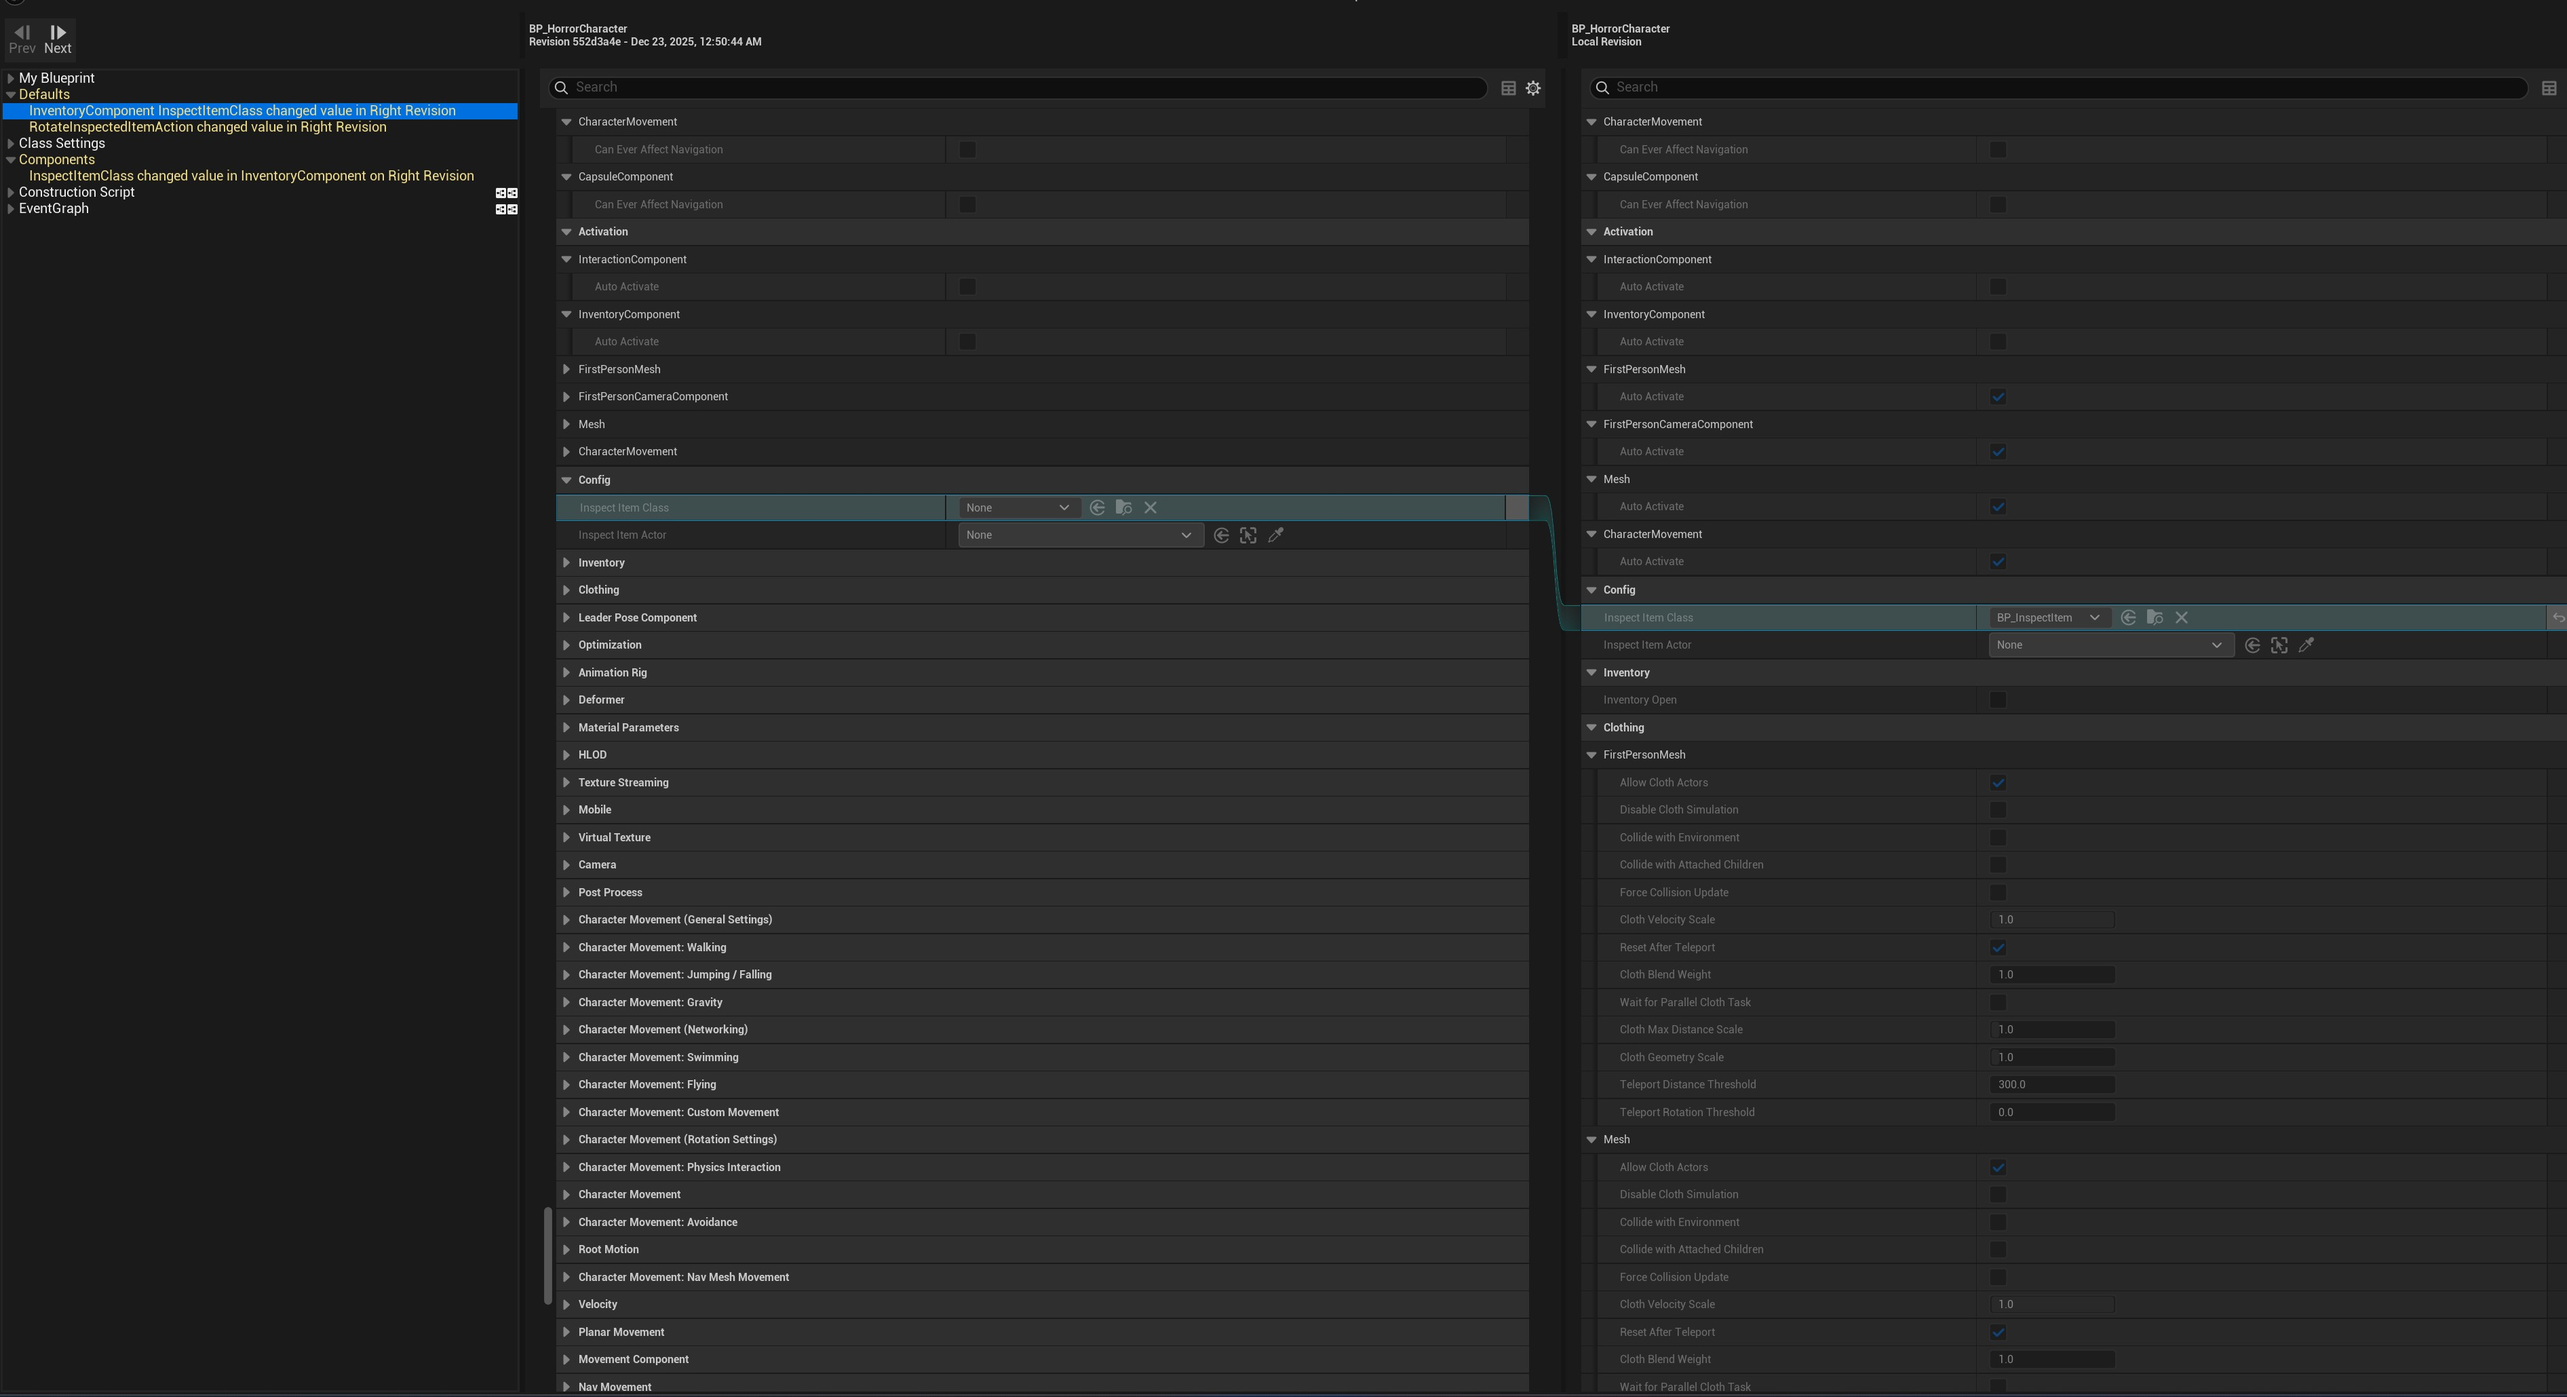
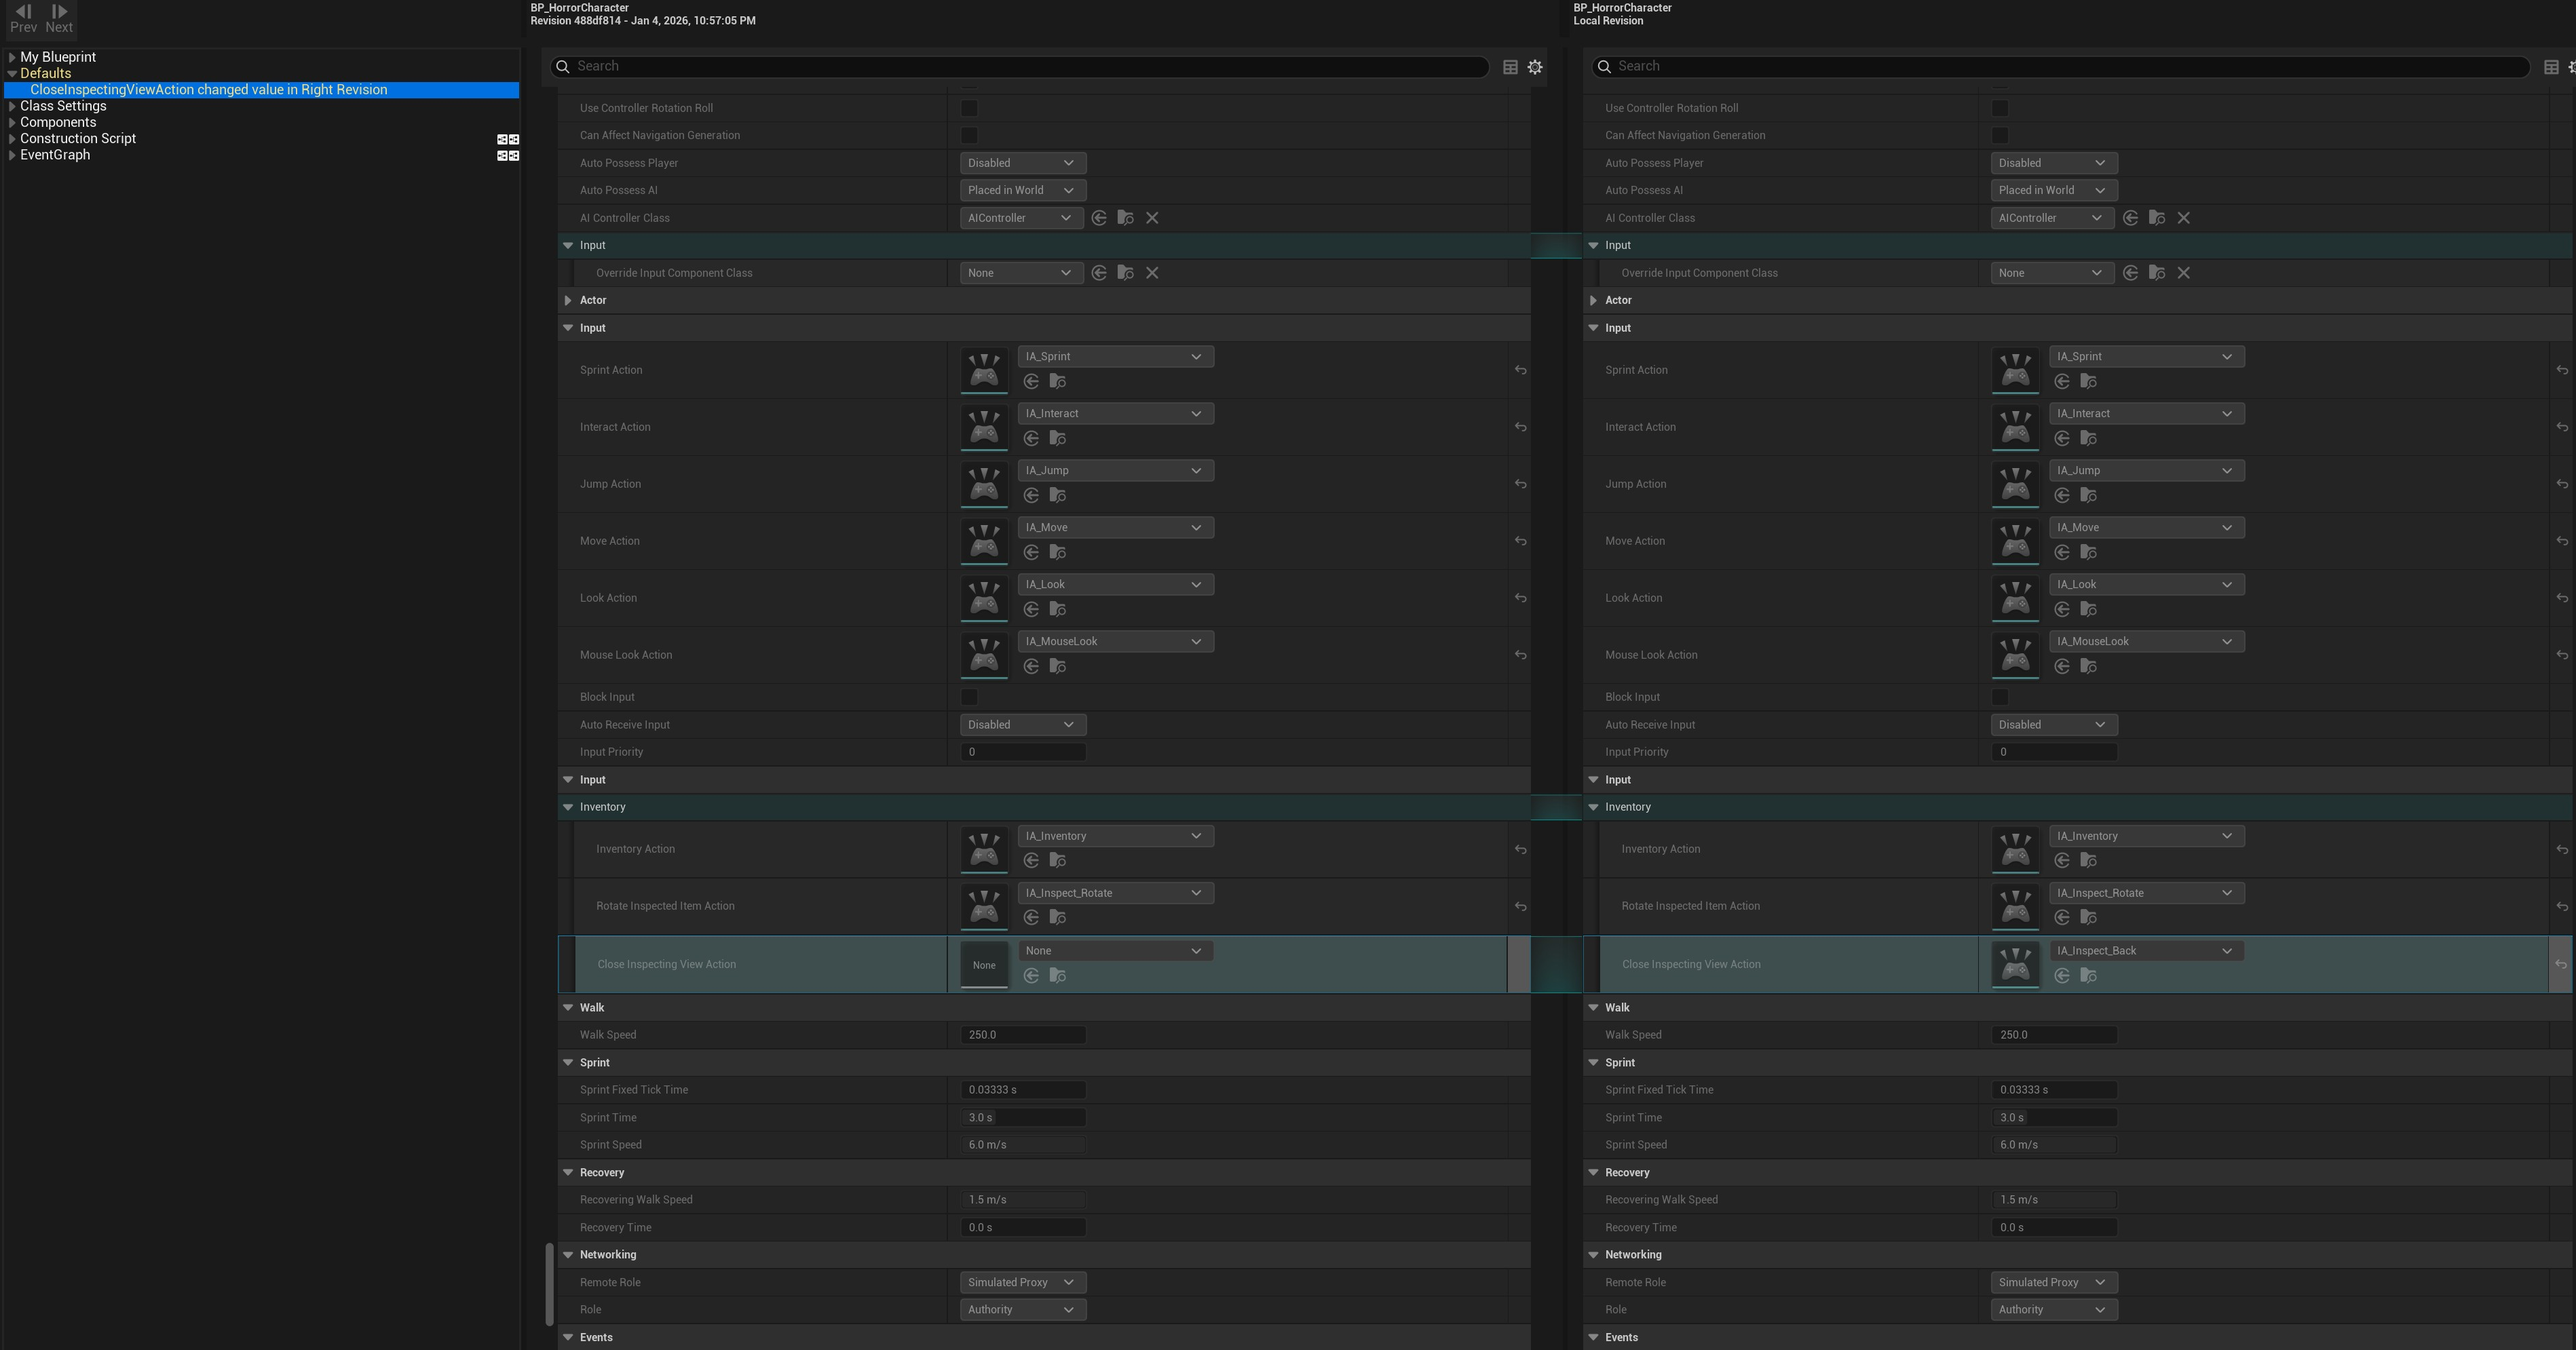
[Add] Inspection back key

diff --git a/Source/The_Turnatable/Private/Core/HorrorCharacter.cpp b/Source/The_Turnatable/Private/Core/HorrorCharacter.cpp
@@ -63,6 +63,7 @@ void AHorrorCharacter::SetupPlayerInputComponent(UInputComponent* PlayerInputCom
 			EnhancedInputComponent->BindAction(SprintAction, ETriggerEvent::Started, this, &AHorrorCharacter::DoStartSprint);
 			EnhancedInputComponent->BindAction(SprintAction, ETriggerEvent::Completed, this, &AHorrorCharacter::DoEndSprint);
 			EnhancedInputComponent->BindAction(InteractAction, ETriggerEvent::Started, InteractionComponent	, &UTTInteractionComponent::PrimaryInteract);
+			EnhancedInputComponent->BindAction(CloseInspectingViewAction, ETriggerEvent::Started, InventoryComponent, &UTTInventoryComponent::CloseInspectView);
 			EnhancedInputComponent->BindAction(InventoryAction, ETriggerEvent::Started, InventoryComponent, &UTTInventoryComponent::ToggleInventory);
 			EnhancedInputComponent->BindAction(RotateInspectedItemAction, ETriggerEvent::Triggered, InventoryComponent, &UTTInventoryComponent::RotateItem);
 		}

diff --git a/Source/The_Turnatable/Private/LevelGeometry/TTInspectItem.cpp b/Source/The_Turnatable/Private/LevelGeometry/TTInspectItem.cpp
@@ -55,12 +55,19 @@ void ATTInspectItem::InspectItem(UStaticMesh* Mesh, const FText& ItemName, const
 	}
 	InspectWidget->OnInspect(ItemName, ItemDescription);
 	InspectWidget->AddToViewport();
+	bIsInspecting = true;
+}
+
+void ATTInspectItem::CloseInspectWidget()
+{
+	if (!InspectWidget) return;
+	
+	InspectWidget->RemoveFromParent();
+	bIsInspecting = false;
 }
 
 void ATTInspectItem::RotateItem(const FVector2D LookAxisVector) const
 {
-	UE_LOG(LogTemp, Warning, TEXT ("Rotate Item"));
-	UE_LOG(LogTemp, Warning, TEXT ("Look Axis: %s"), *LookAxisVector.ToString());
 	FRotator NewRotation = UKismetMathLibrary::ComposeRotators(StaticMeshComponent->GetComponentRotation(),
 		FRotator(LookAxisVector.Y, LookAxisVector.X, 0.0f));
 	StaticMeshComponent->SetWorldRotation(NewRotation);

diff --git a/Source/The_Turnatable/Private/Core/Inventory/TTInventoryComponent.cpp b/Source/The_Turnatable/Private/Core/Inventory/TTInventoryComponent.cpp
@@ -53,11 +53,24 @@ bool UTTInventoryComponent::HasItem(UTTItem* ItemToCheck)
 
 void UTTInventoryComponent::ToggleInventory()
 {
-	bInventoryOpen = !bInventoryOpen;
-	OnInventoryToggleDelegate.Broadcast(bInventoryOpen);
+	if (!InspectItemActor) return;
+	if (InspectItemActor->IsInspecting())
+	{
+		CloseInspectView();
+	}
+	else
+	{
+		bInventoryOpen = !bInventoryOpen;
+		OnInventoryToggleDelegate.Broadcast(bInventoryOpen);
+	}
 }
 
 void UTTInventoryComponent::RotateItem(const FInputActionValue& Value)
 {
 	InspectItemActor->RotateItem(Value.Get<FVector2D>()*3.0f);
+}
+
+void UTTInventoryComponent::CloseInspectView()
+{
+	InspectItemActor->CloseInspectWidget();
 }

diff --git a/Source/The_Turnatable/Public/LevelGeometry/TTInspectItem.h b/Source/The_Turnatable/Public/LevelGeometry/TTInspectItem.h
@@ -34,9 +34,11 @@ public:
 	
 	// Sets default values for this actor's properties
 	ATTInspectItem();
-	
+
+	bool IsInspecting() const { return bIsInspecting; }
 
 protected:
+	bool bIsInspecting =false;
 	// Called when the game starts or when spawned
 	virtual void BeginPlay() override;
 
@@ -45,5 +47,6 @@ public:
 	virtual void Tick(float DeltaTime) override;
 	
 	void InspectItem(UStaticMesh* Mesh, const FText& ItemName, const FText& ItemDescription = FText::GetEmpty());
+	void CloseInspectWidget();
 	void RotateItem(const FVector2D LookAxisVector) const;
 };

diff --git a/Source/The_Turnatable/Public/Core/HorrorCharacter.h b/Source/The_Turnatable/Public/Core/HorrorCharacter.h
@@ -50,6 +50,10 @@ protected:
 	/** Inventory input action */
 	UPROPERTY(EditAnywhere, Category ="Input | Inventory")
 	UInputAction* RotateInspectedItemAction;
+
+	/** Inventory input action */
+	UPROPERTY(EditAnywhere, Category ="Input | Inventory")
+	UInputAction* CloseInspectingViewAction;
 	
 	/** If true, we're sprinting */
 	bool bSprinting = false;

diff --git a/Source/The_Turnatable/Private/Core/Inventory/TTInventoryComponent.h b/Source/The_Turnatable/Private/Core/Inventory/TTInventoryComponent.h
@@ -47,4 +47,5 @@ public:
 	void ToggleInventory();
 
 	void RotateItem(const FInputActionValue& Value);
+	void CloseInspectView();
 };
